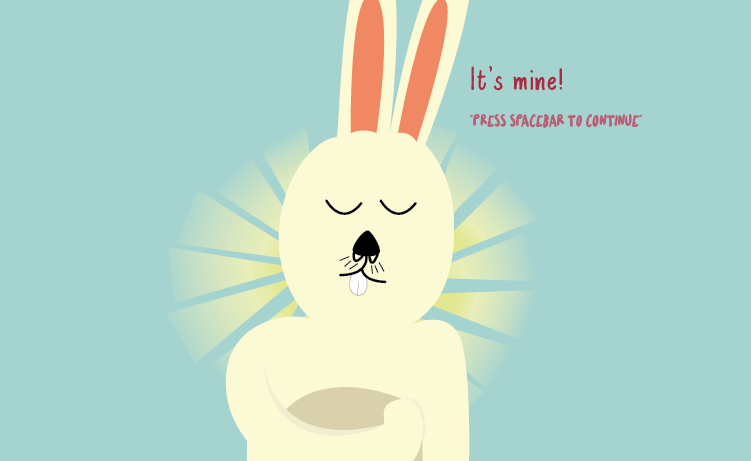
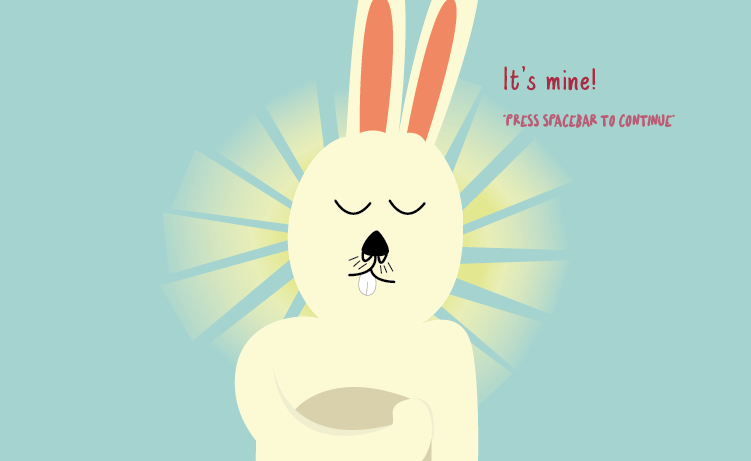
updateanimation

diff --git a/Bunbun/story4Scene.js b/Bunbun/story4Scene.js
@@ -6,7 +6,8 @@ class story4Scene extends Phaser.Scene {
     }
 
     preload() {
-        this.load.image('story4','assets/story4Scene.png');
+        this.load.spritesheet('story4','assets/story4Scene.png', { frameWidth: 750, frameHeight: 460});
+        this.load.spritesheet('bling', 'assets/bling.png', { frameWidth: 750, frameHeight: 460});
         this.load.audio('omg', 'assets/music/omg.mp3');
 
     }
@@ -17,7 +18,29 @@ class story4Scene extends Phaser.Scene {
         //this.omgosh.loop = true;
         this.omgosh.play();
 
-        this.add.image(0, 0, 'story4').setOrigin(0, 0);
+        this.anims.create({
+            key: 'biggerbling',
+            frames: this.anims.generateFrameNumbers('bling', { start: 0, end: 1 }),
+            frameRate: 2,
+            repeat: -1
+        });
+
+        this.anims.create({
+            key: 'storybling',
+            frames: this.anims.generateFrameNumbers('story4', { start: 0, end: 1 }),
+            frameRate: 2,
+            repeat: -1
+        });
+
+        this.bling= this.add.group();
+
+        this.bling.create( 375, 230, 'bling').play('biggerbling');
+
+        this.story4= this.add.group();
+
+        this.story4.create( 375, 230, 'story4').play('storybling');
+
+        //this.add.image(0, 0, 'story4').setOrigin(0, 0);
 
         console.log("This is story4Scene");
 

diff --git a/Bunbun/story5Scene.js b/Bunbun/story5Scene.js
@@ -7,6 +7,7 @@ class story5Scene extends Phaser.Scene {
 
     preload() {
         this.load.image('story5','assets/story5Scene.png');
+        this.load.spritesheet('thought', 'assets/thought.png', { frameWidth: 750, frameHeight: 460});
         this.load.audio('hungry', 'assets/music/hungry.mp3');
 
     }
@@ -17,7 +18,18 @@ class story5Scene extends Phaser.Scene {
         //this.hunger.loop = true;
         this.hunger.play();
 
+        this.anims.create({
+            key: 'thinking',
+            frames: this.anims.generateFrameNumbers('thought', { start: 0, end: 2 }),
+            frameRate: 2,
+            repeat: -1
+        });
+
         this.add.image(0, 0, 'story5').setOrigin(0, 0);
+
+        this.thought= this.add.group();
+
+        this.thought.create( 310, 230, 'thought').play('thinking');
 
         console.log("This is story5Scene");
 

diff --git a/Bunbun/insScene.js b/Bunbun/insScene.js
@@ -6,7 +6,7 @@ class insScene extends Phaser.Scene {
     }
 
     preload() {
-        this.load.image('instruction','assets/insScene.png');
+        this.load.image('instruction','assets/instructionScene.png');
 
     }
 
